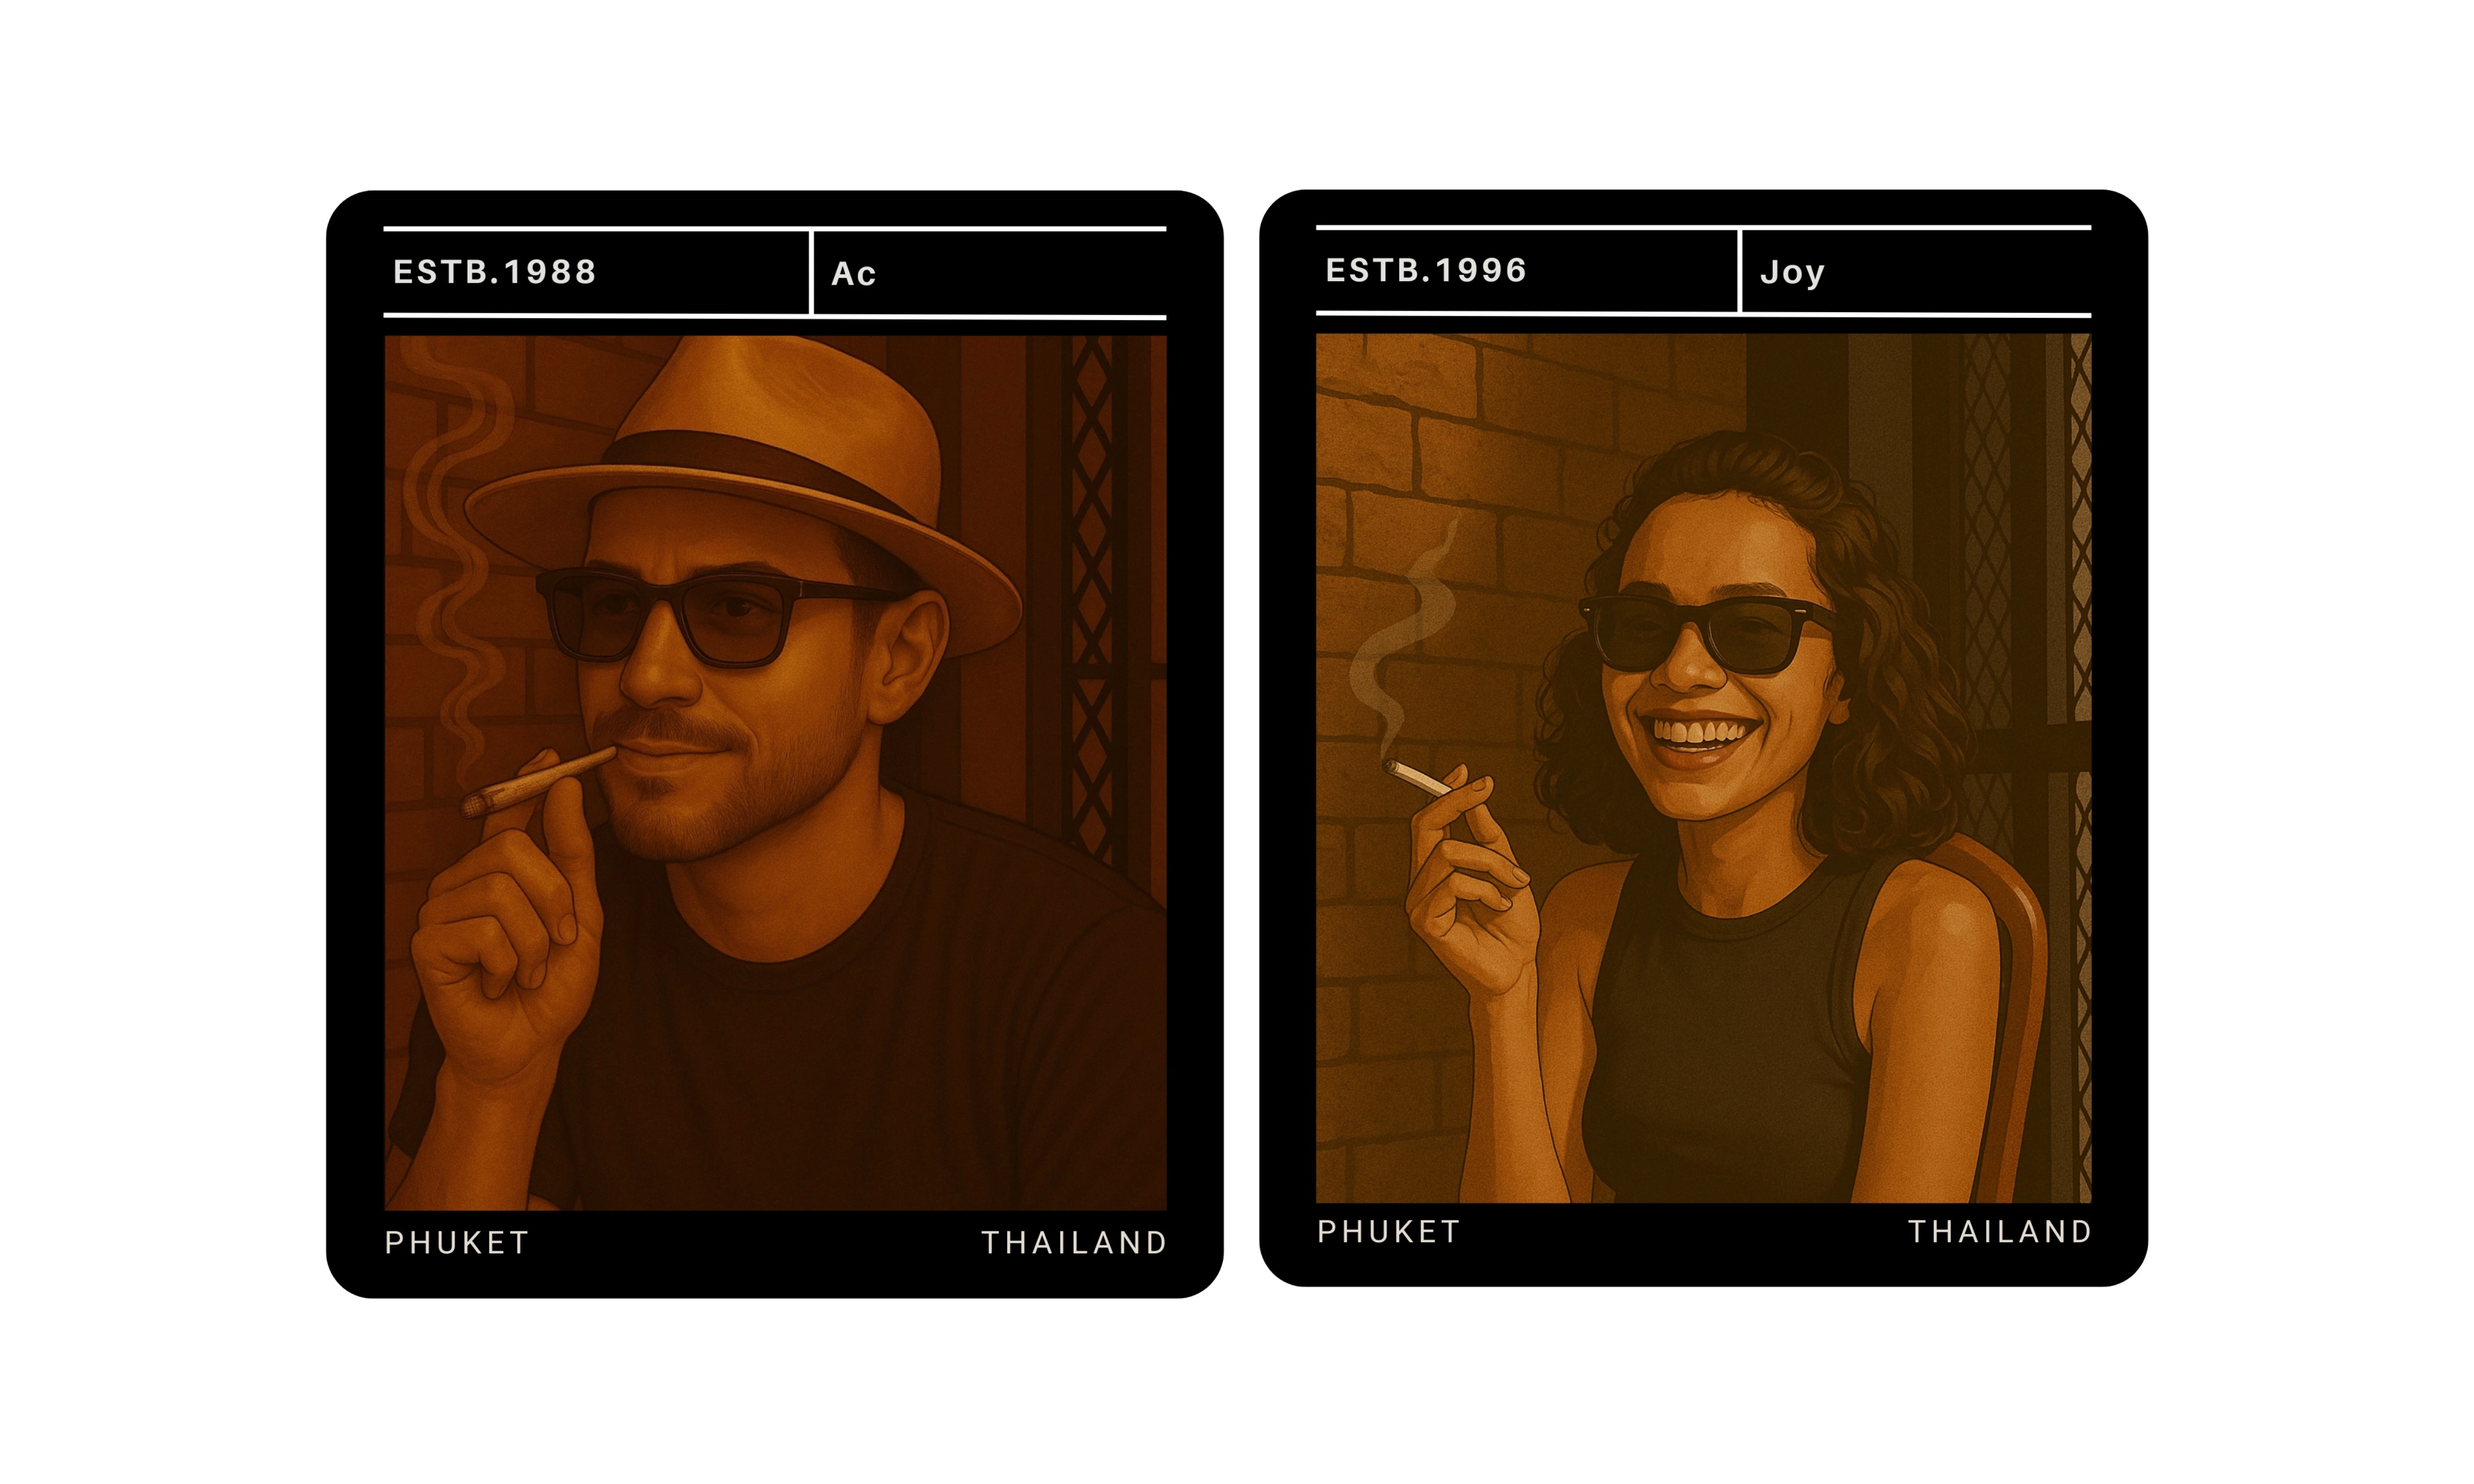
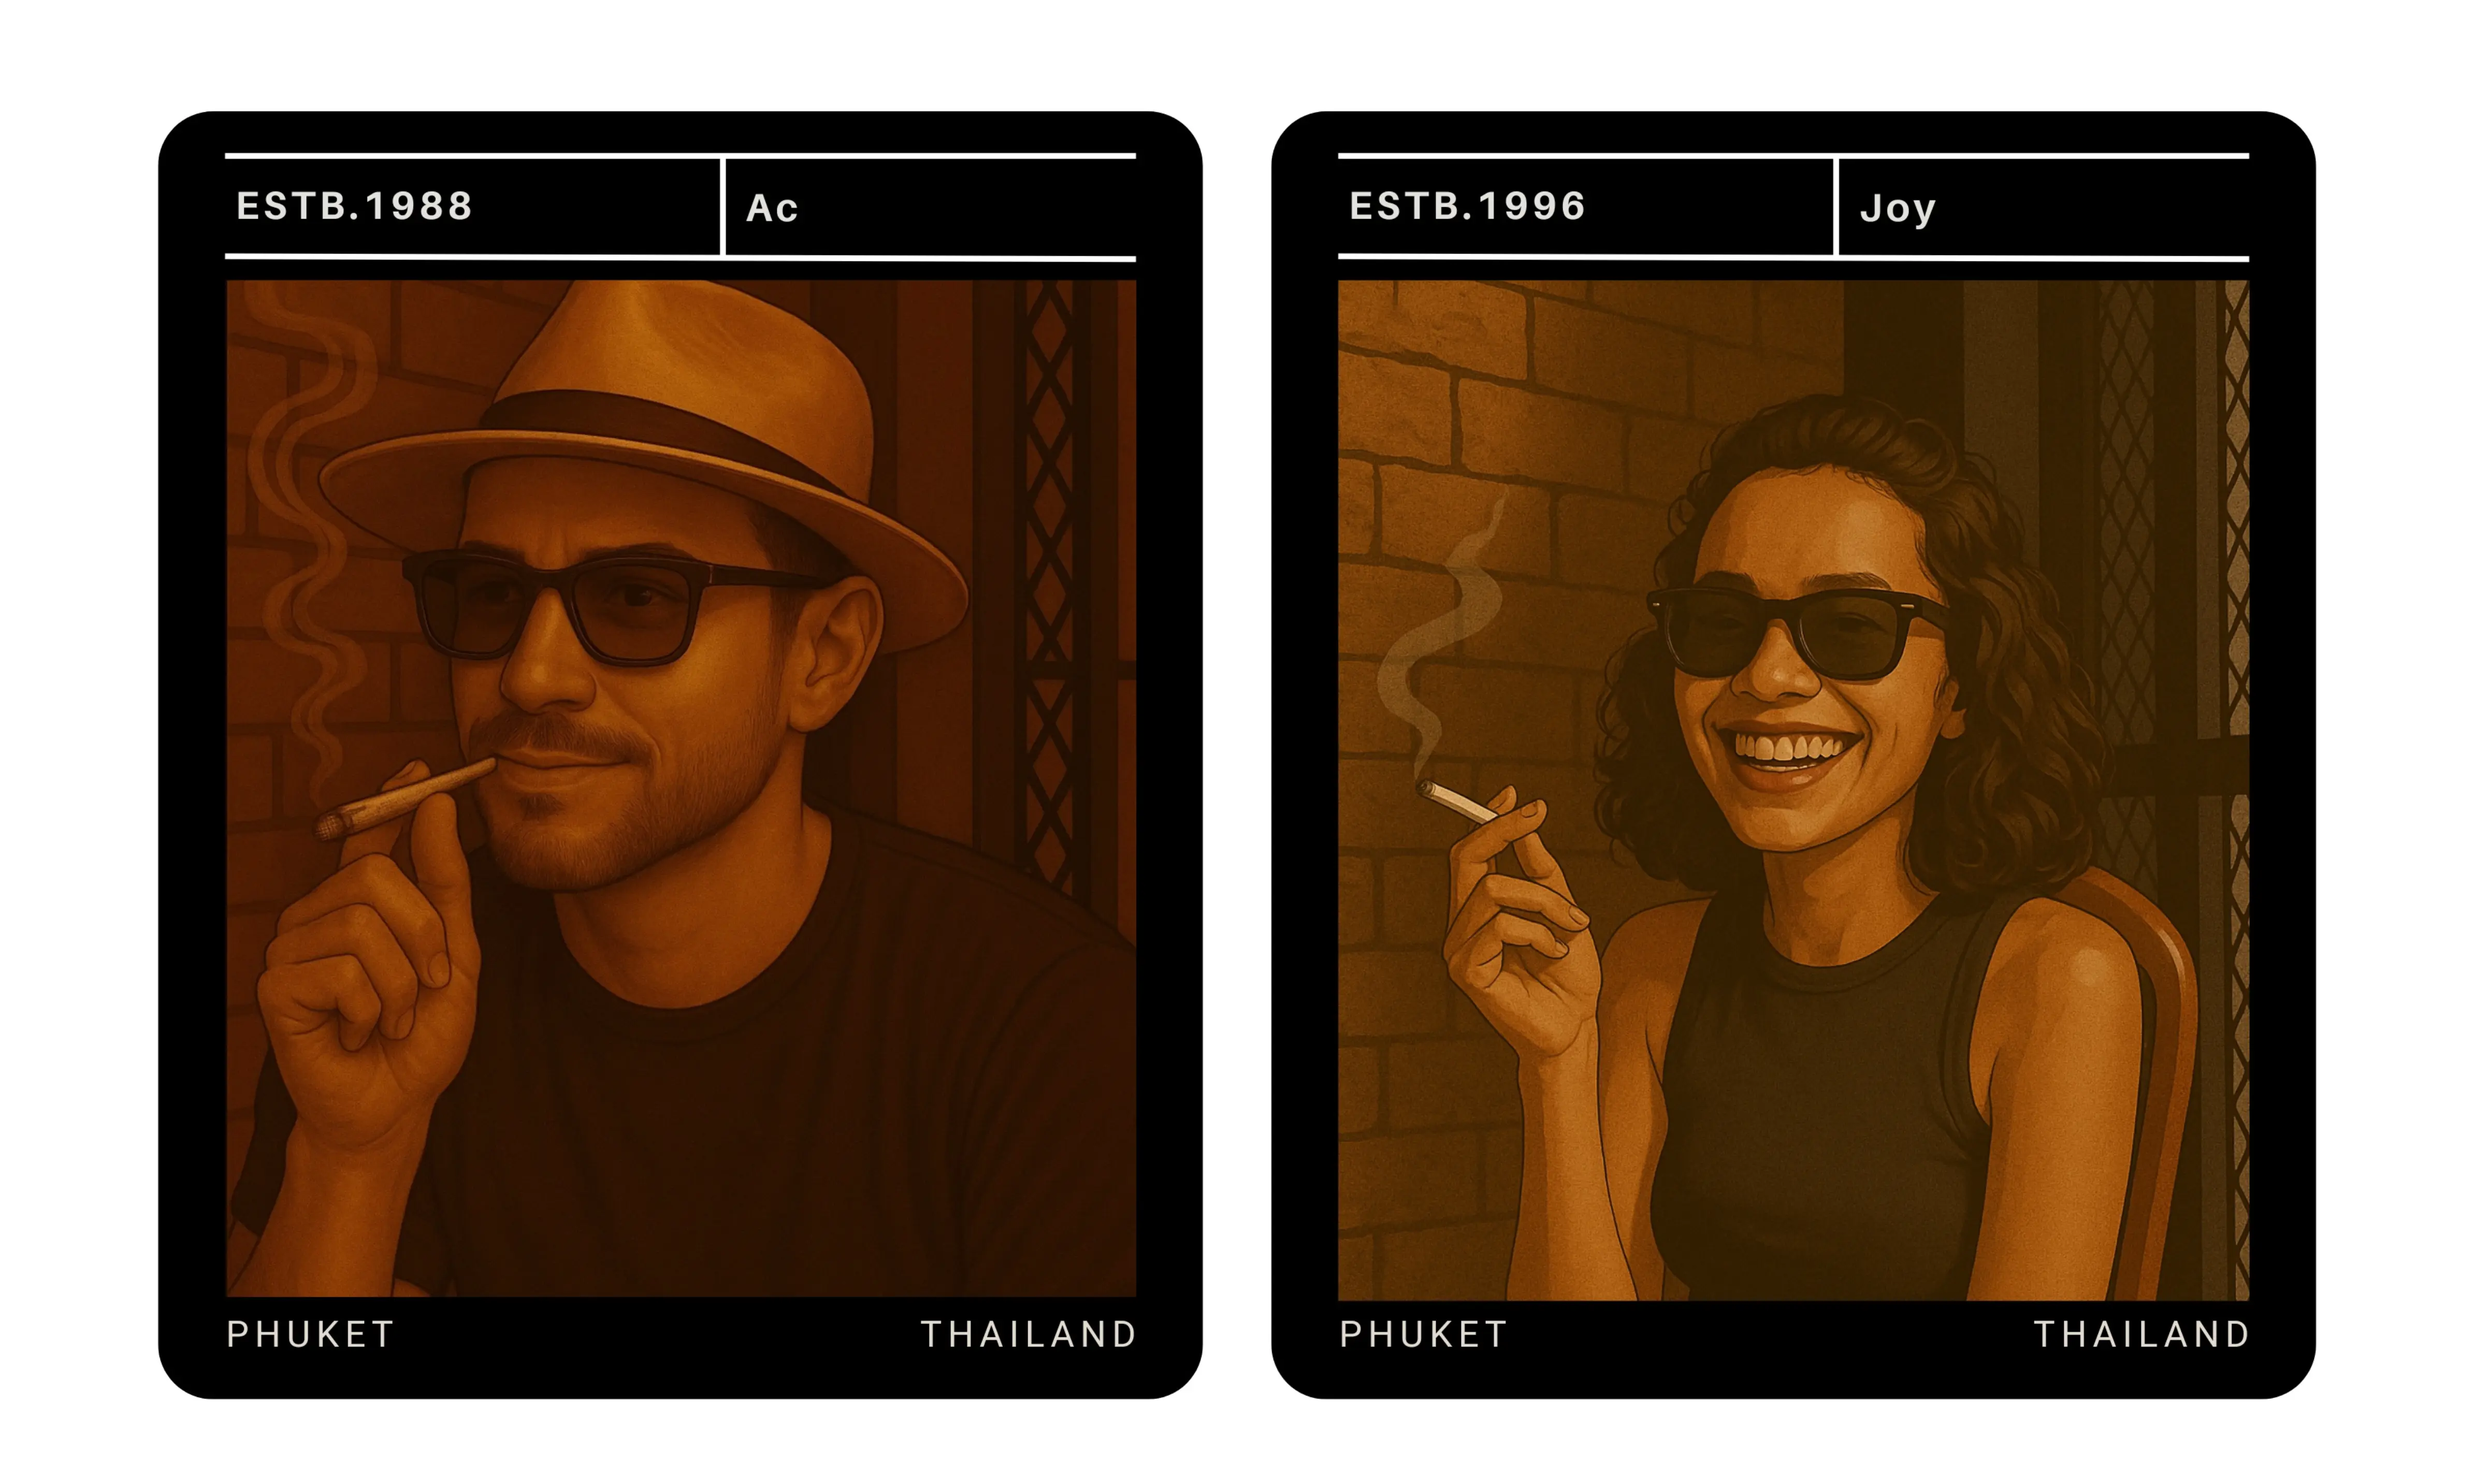
initial upload

diff --git a/src/components/ProductCard.tsx b/src/components/ProductCard.tsx
@@ -46,9 +46,9 @@ export function ProductCard({ _id, name, price, images, description, isOutOfStoc
       onMouseEnter={() => setIsHovered(true)}
       onMouseLeave={() => setIsHovered(false)}
     >
-      <div className="relative overflow-hidden rounded-3xl bg-[#0A0A0A] border border-[#7c4d33]/30 transition-all duration-300 hover:shadow-lg hover:shadow-[#b88c41]/10">
+      <div className="relative overflow-hidden rounded-[10px] bg-[#0A0A0A] border border-[#7c4d33]/30 transition-all duration-300 hover:shadow-lg hover:shadow-[#b88c41]/10">
         {/* Product Image */}
-        <div className="relative aspect-square overflow-hidden rounded-t-3xl">
+        <div className="relative aspect-square overflow-hidden">
           {/* First Image (Always visible, fades out on hover if second image exists) */}
           <Image
             src={images[0] || '/images/placeholder-product.jpg'}
@@ -93,7 +93,7 @@ export function ProductCard({ _id, name, price, images, description, isOutOfStoc
           {/* Featured badge - positioned at top left */}
           {isFeatured && !isOutOfStock && (
             <div className="absolute top-3 left-3 z-10">
-              <span className="bg-[#b88c41] px-3 py-1 text-[#0A0A0A] text-xs font-bold uppercase font-suisse-intl-mono rounded-xl">
+              <span className="bg-[#b88c41] px-3 py-1 text-[#0A0A0A] text-xs font-bold uppercase font-suisse-intl-mono rounded-[5px]">
                 Featured
               </span>
             </div>

diff --git a/src/components/CartDrawer.tsx b/src/components/CartDrawer.tsx
@@ -278,7 +278,7 @@ export function CartDrawer() {
   return (
     <div 
       ref={backdropRef}
-      className="fixed inset-0 bg-black bg-opacity-70 backdrop-blur-sm z-50 overflow-hidden"
+      className="fixed inset-0 bg-black bg-opacity-70 backdrop-blur-sm z-[100] overflow-hidden"
       // เพิ่ม onClick ที่ backdrop เพื่อปิด drawer เมื่อคลิกนอกพื้นที่
       onClick={(e) => {
         // ตรวจสอบว่าคลิกที่ backdrop จริงๆ (target เป็น element ที่มี ref)
@@ -444,7 +444,7 @@ export function CartDrawer() {
           
           {/* Cart Footer */}
           {items.length > 0 && (
-            <div className="p-4 border-t border-[#7c4d33]/30">
+            <div className="p-4 pb-10 border-t border-[#7c4d33]/30">
               <div className="flex justify-between mb-4">
                 <span className="font-suisse-intl text-[#F5F1E6]">Total</span>
                 <span className="font-suisse-intl-mono text-[#b88c41]">

diff --git a/src/components/Review.tsx b/src/components/Review.tsx
@@ -30,13 +30,13 @@ const globalStyles = `
   }
   
   .animate-marquee {
-    animation: marquee 30s linear infinite;
+    animation: marquee 10s linear infinite;
   }
   
   .text-overflow {
     overflow: hidden;
     white-space: nowrap;
-    animation: scrollText 15s linear infinite;
+    animation: scrollText 5s linear infinite;
     animation-delay: 2s;
   }
   
@@ -86,7 +86,7 @@ const ReviewCard = React.memo(({ review }: { review: IReview }) => {
   }, [review.rating]);
   
   return (
-    <div className="min-w-[280px] w-[280px] h-[200px] bg-[#0A0A0A]/70 border border-white/20 backdrop-blur-md p-6 rounded-[20px] shadow-xl relative overflow-hidden flex flex-col flex-shrink-0">
+    <div className="min-w-[280px] w-[280px] h-[200px] bg-[#0A0A0A]/70 border border-white/20 backdrop-blur-md p-6 rounded-[15px] shadow-xl relative overflow-hidden flex flex-col flex-shrink-0">
       {/* Star Rating */}
       <div className="flex mb-4">
         {stars}

diff --git a/src/components/Featured.tsx b/src/components/Featured.tsx
@@ -261,7 +261,7 @@ export default function Featured() {
         {needsScrolling && showLeftArrow && (
           <button 
             onClick={scrollLeft}
-            className="absolute left-0 top-1/2 -translate-y-1/2 -ml-4 z-10 bg-[#0A0A0A] w-10 h-10 rounded-full flex items-center justify-center border border-[#7c4d33]/50 shadow-lg text-[#b88c41] hover:bg-[#b88c41]/10 transition-all duration-300"
+            className="absolute left-0 top-1/2 -translate-y-1/2 -ml-4 z-10 bg-[#0A0A0A] w-10 h-10 rounded-xl flex items-center justify-center border border-[#7c4d33]/50 shadow-lg text-[#b88c41] hover:bg-[#b88c41]/10 transition-all duration-300"
             aria-label="Scroll left"
           >
             <svg xmlns="http://www.w3.org/2000/svg" width="24" height="24" viewBox="0 0 24 24" fill="none" stroke="currentColor" strokeWidth="2" strokeLinecap="round" strokeLinejoin="round">

diff --git a/src/components/ProductStory.tsx b/src/components/ProductStory.tsx
@@ -148,7 +148,7 @@ const StoryItem = React.memo<StoryItemProps>(({ story, index, isEven }) => {
         variants={imageVariants}
         style={{ willChange: "transform, opacity" }}
       >
-        <div className="w-full rounded-[30px] overflow-hidden" style={{aspectRatio: '4/3'}}>
+        <div className="w-full rounded-[15px] xl:rounded-[20px] overflow-hidden" style={{aspectRatio: '16/10'}}>
           <Image
             src={story.imageSrc}
             alt={story.imageAlt}

diff --git a/src/components/evenbooking.tsx b/src/components/evenbooking.tsx
@@ -203,7 +203,7 @@ const EventBooking: React.FC = () => {
           variants={videoVariants}
           style={{ willChange: "transform, opacity" }}
         >
-          <div className="w-[95%] h-[90%] rounded-[40px] sm:rounded-[48px] lg:rounded-[100px] overflow-hidden">
+          <div className="w-[95%] h-[90%] rounded-[15px] xl:rounded-[20px] overflow-hidden">
             <ReactPlayer
               url={getFileUrl(eventData.videoPath)}
               className="react-player"

diff --git a/src/components/ui/Button.tsx b/src/components/ui/Button.tsx
@@ -33,7 +33,7 @@ export function Button({
   
   // Rounded styles
   const roundedStyles = {
-    default: "rounded-xl",
+    default: "rounded-[5px]",
     full: "rounded-full"
   };
   
